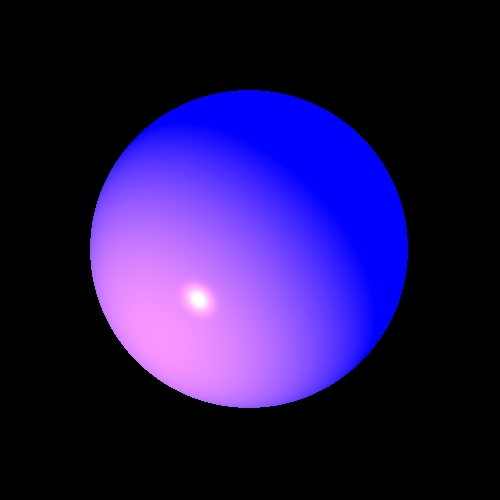
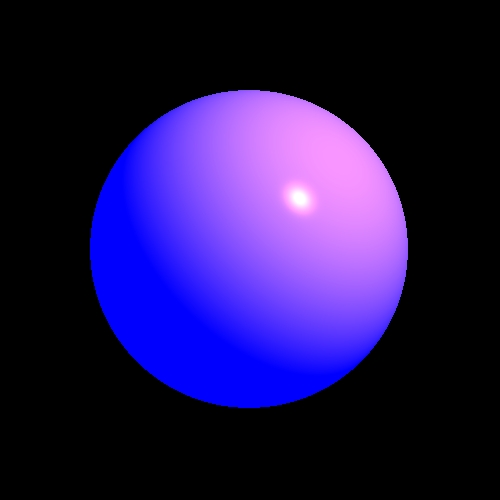
כמעט סוף שלב 6

Changed region(s): [[0.27, 0.18, 0.84, 0.72], [0.18, 0.27, 0.72, 0.84]]

diff --git a/Tar_1/src/elements/Camera.java b/Tar_1/src/elements/Camera.java
@@ -39,13 +39,15 @@ public class Camera
      */
     public Camera(Point3D _p0, Vector _vTo, Vector _vUp) {
 
-        this._p0 = _p0;
-        this._vTo = _vTo.normalize();
-        this._vUp = _vUp.normalize();
-if(!isZero(get_vTo().dotProduct(_vUp)))
+
+        this._p0 = new Point3D(_p0);;
+        this._vTo = _vTo.normalized();
+        this._vRight = _vUp.normalized().scale(-1);
+if(!isZero(get_vTo().dotProduct(_vRight)))
      throw new IllegalArgumentException("The V_to and V_up vectors are not orthogonal.");
         else
-            _vRight = _vTo.crossProduct(_vUp).normalized();
+    this._vUp = this._vRight.crossProduct(this._vTo).normalize().scale(-1);
+
     }
 
     /**

diff --git a/Tar_1/src/renderer/ImageWriter.java b/Tar_1/src/renderer/ImageWriter.java
@@ -98,6 +98,8 @@ public class ImageWriter {
      */
     public void writePixel(int xIndex, int yIndex, Color color)
     {
+
+        if(yIndex <_nY && xIndex <_nX&& yIndex > 0 && xIndex > 0)//to ensure the shapes dos not go out of bounds
         _image.setRGB(xIndex, yIndex, color.getRGB());
     }
 
